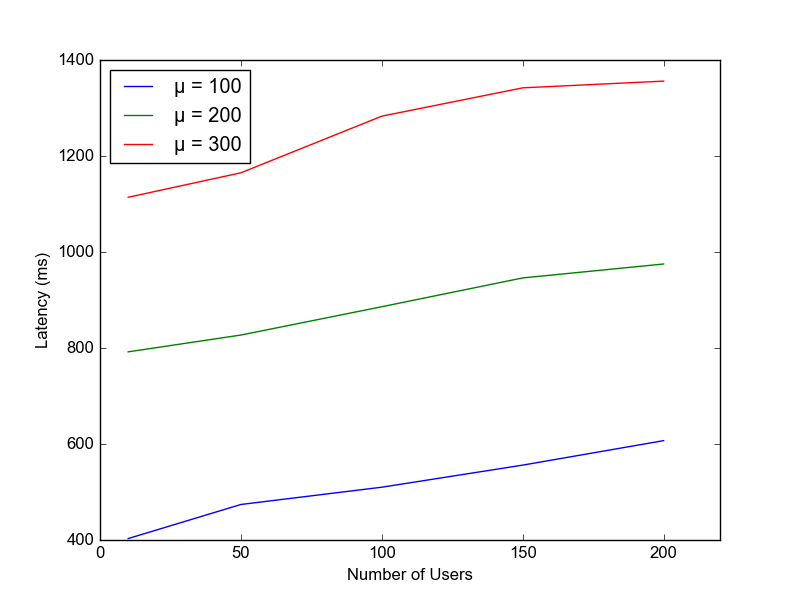
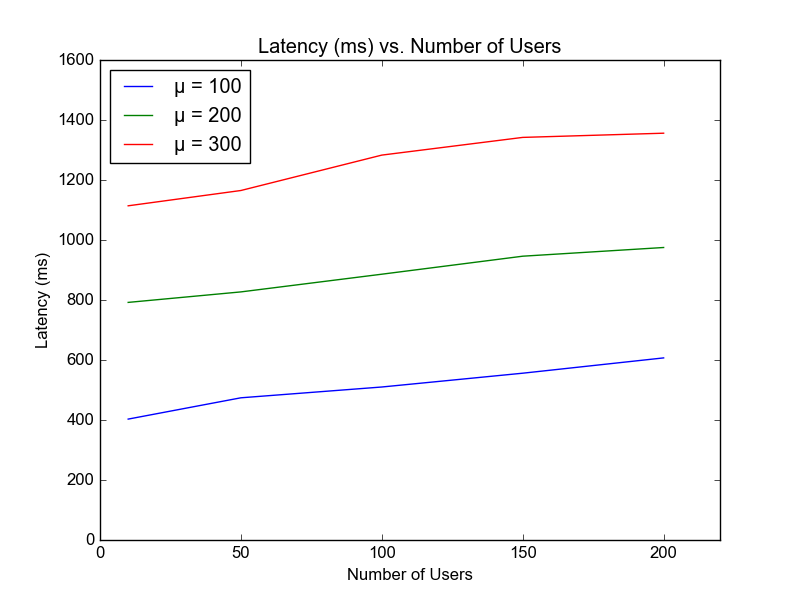
updated graph

diff --git a/data/plot.py b/data/plot.py
@@ -85,7 +85,10 @@ plt.scatter([200] * len(mu_300_200), mu_300_200, color='red')
 
 plt.legend(loc='upper left')
 plt.xlim([0, 220])
+plt.ylim([0, 1600])
 plt.xlabel('Number of Users')
 plt.ylabel('Latency (ms)')
+plt.title('Latency (ms) vs. Number of Users')
+
 #plt.show()
 plt.savefig('scaling.png')
